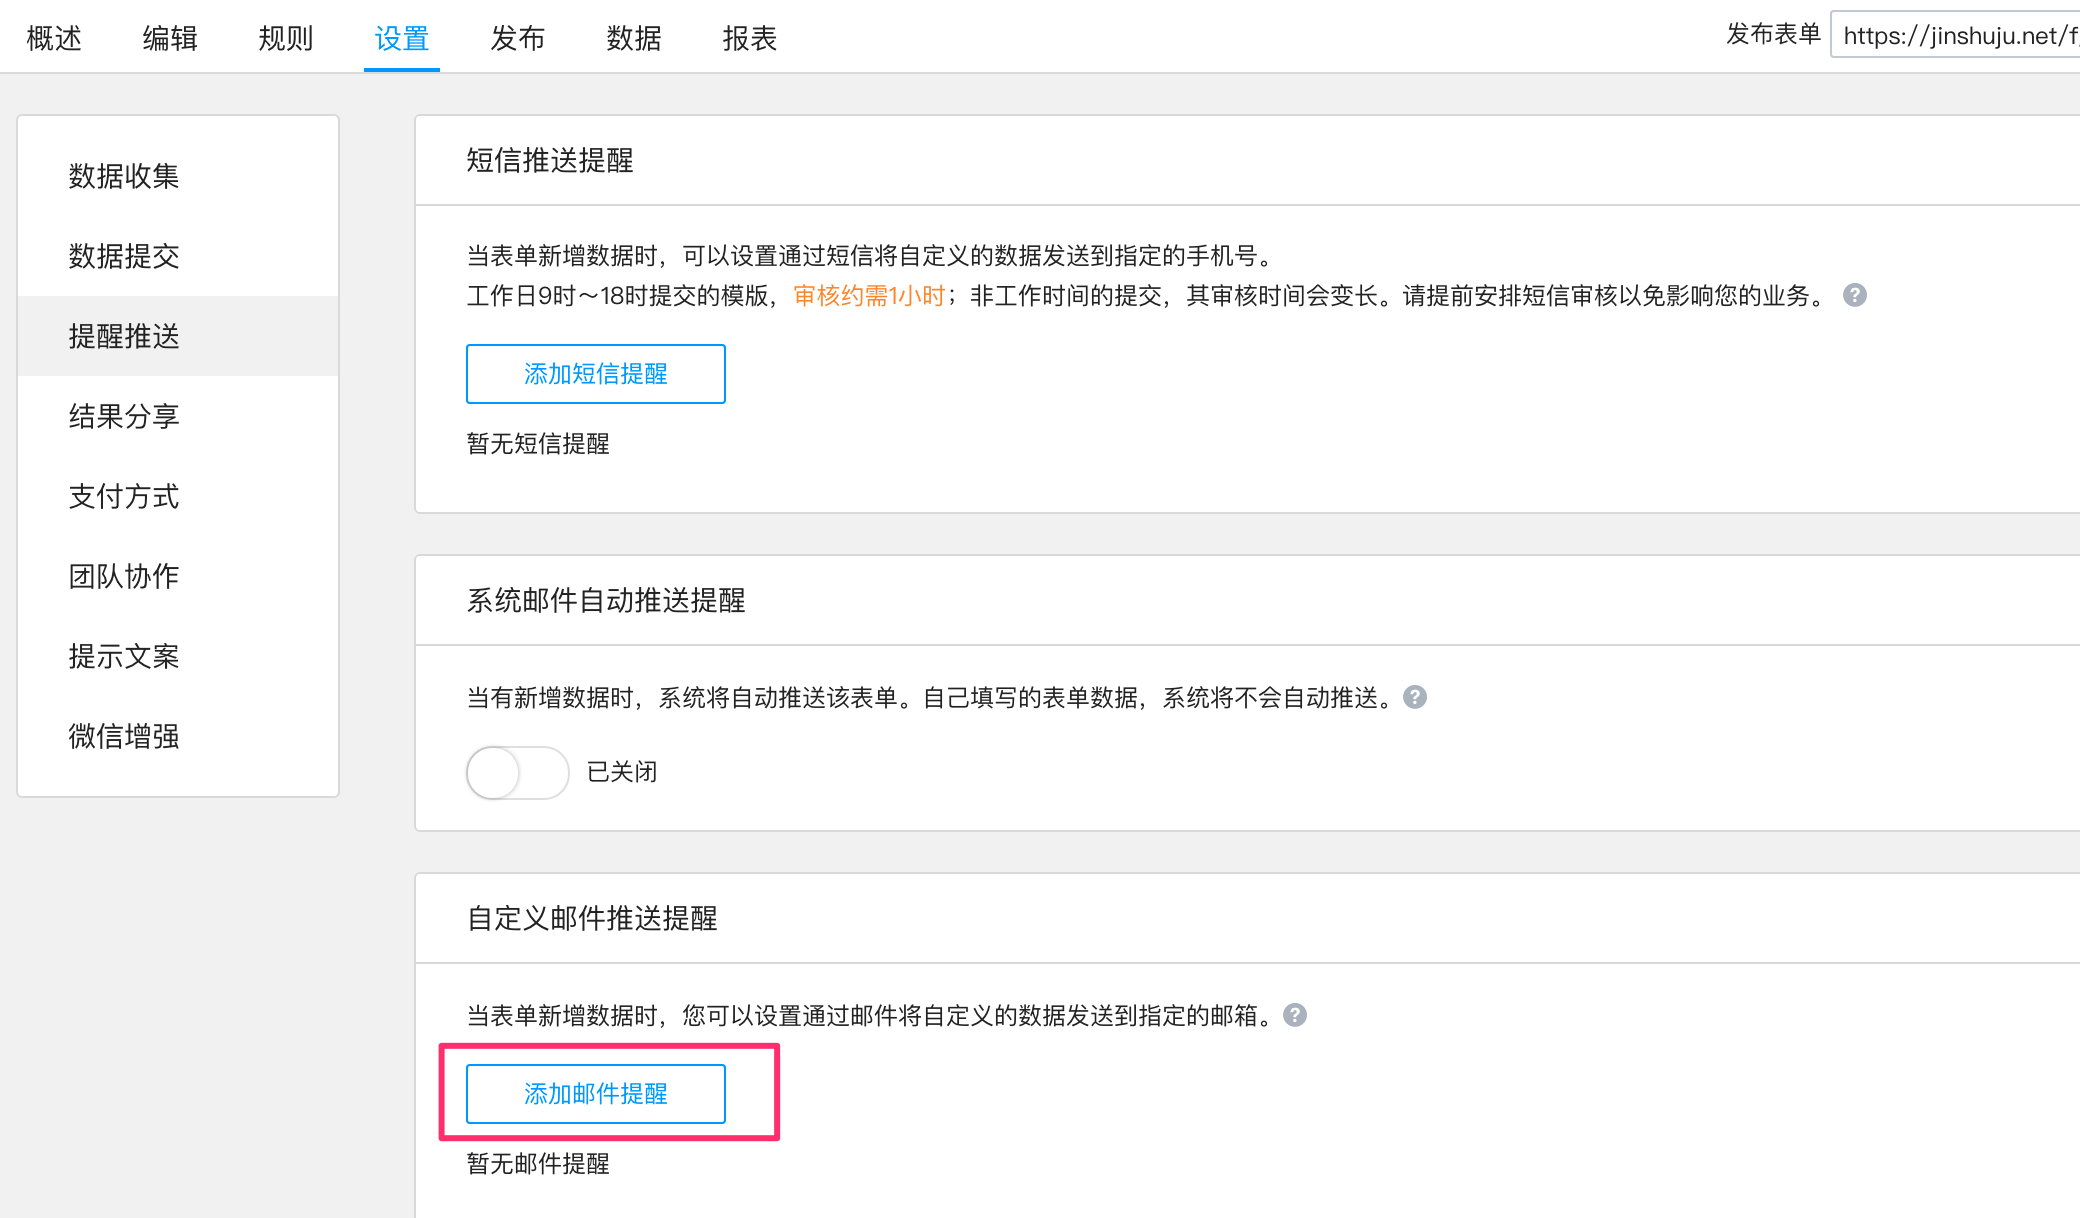
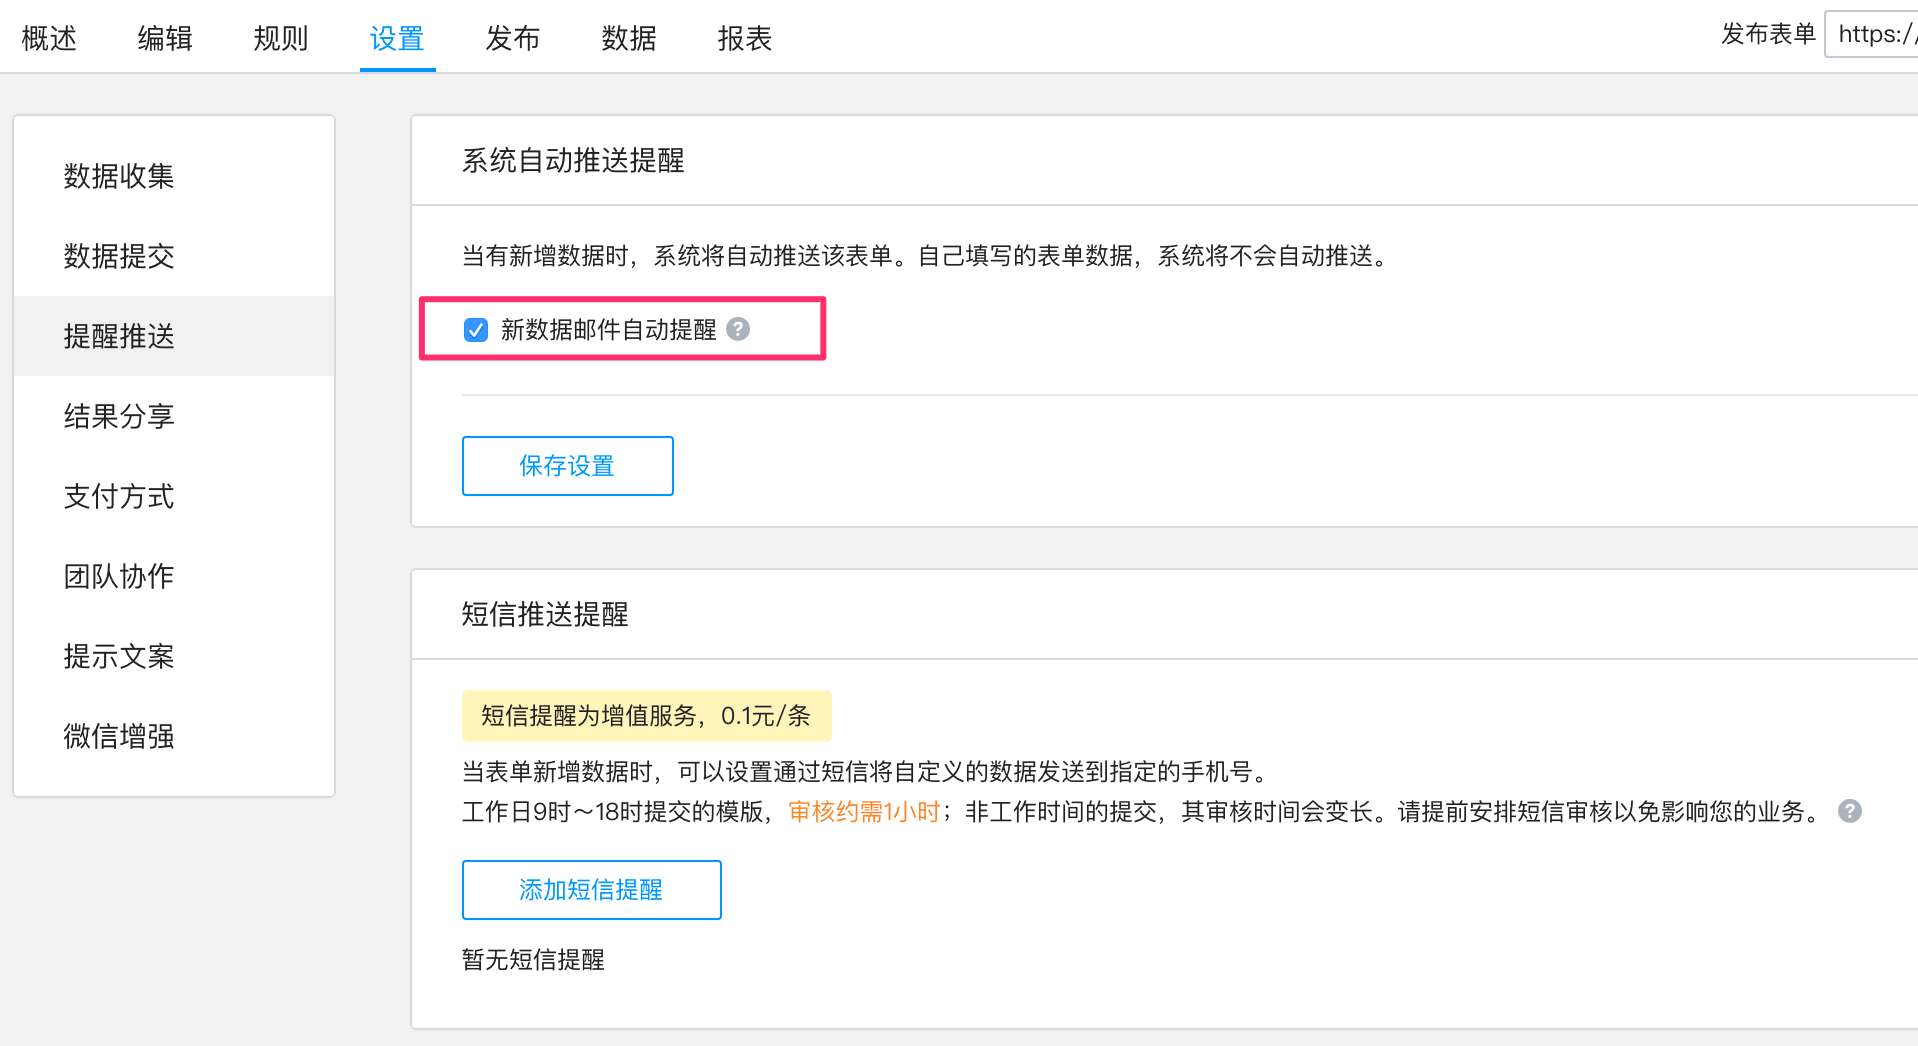
modify article

diff --git a/_posts/2014-2-7-email-self-push.md b/_posts/2014-2-7-email-self-push.md
@@ -11,13 +11,8 @@ category: notification
 
 ### 设置步骤
 
-1. 在您表单的 **设置** —— **提醒推送** 页面的下部，您可以添加邮件提醒或查看当前的邮件提醒规则。
+点击您表单的 **设置** —— **提醒推送** ，然后勾选系统自动推送提醒的“新数据邮件自动提醒”即可。该邮件免费。
 	![](/images/email-push-setting.png)
-
-2. 点击 **添加邮件提醒**，出现邮件提醒自定义设置页面。
-	![](/images/email-push-index.png)
-
-#### 自定义邮件推送的设置类似于自定义短信推送，所以请[点此查看](http://help.jinshuju.net/articles/sms-self-push.html)。
 
 ### 注意事项
 
